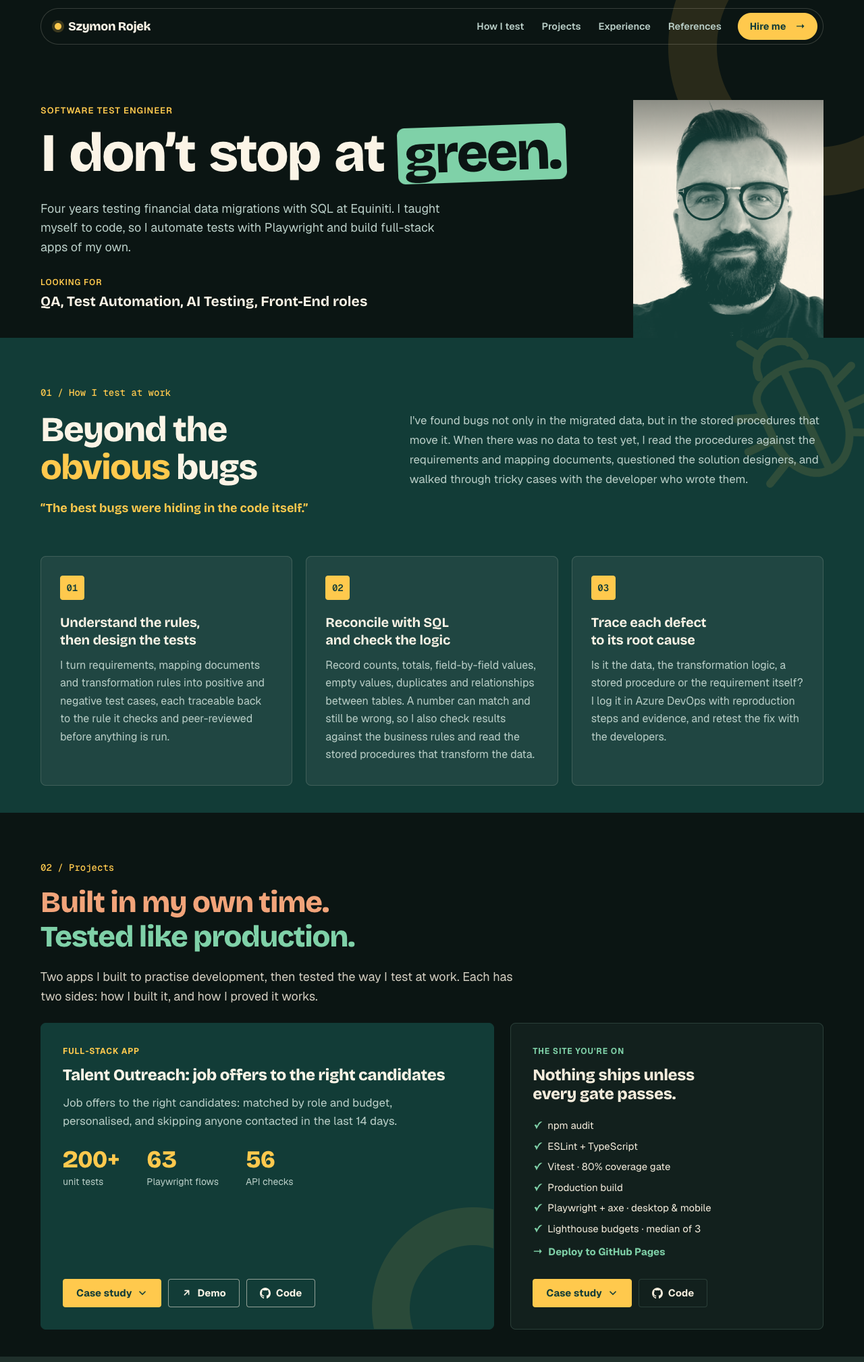
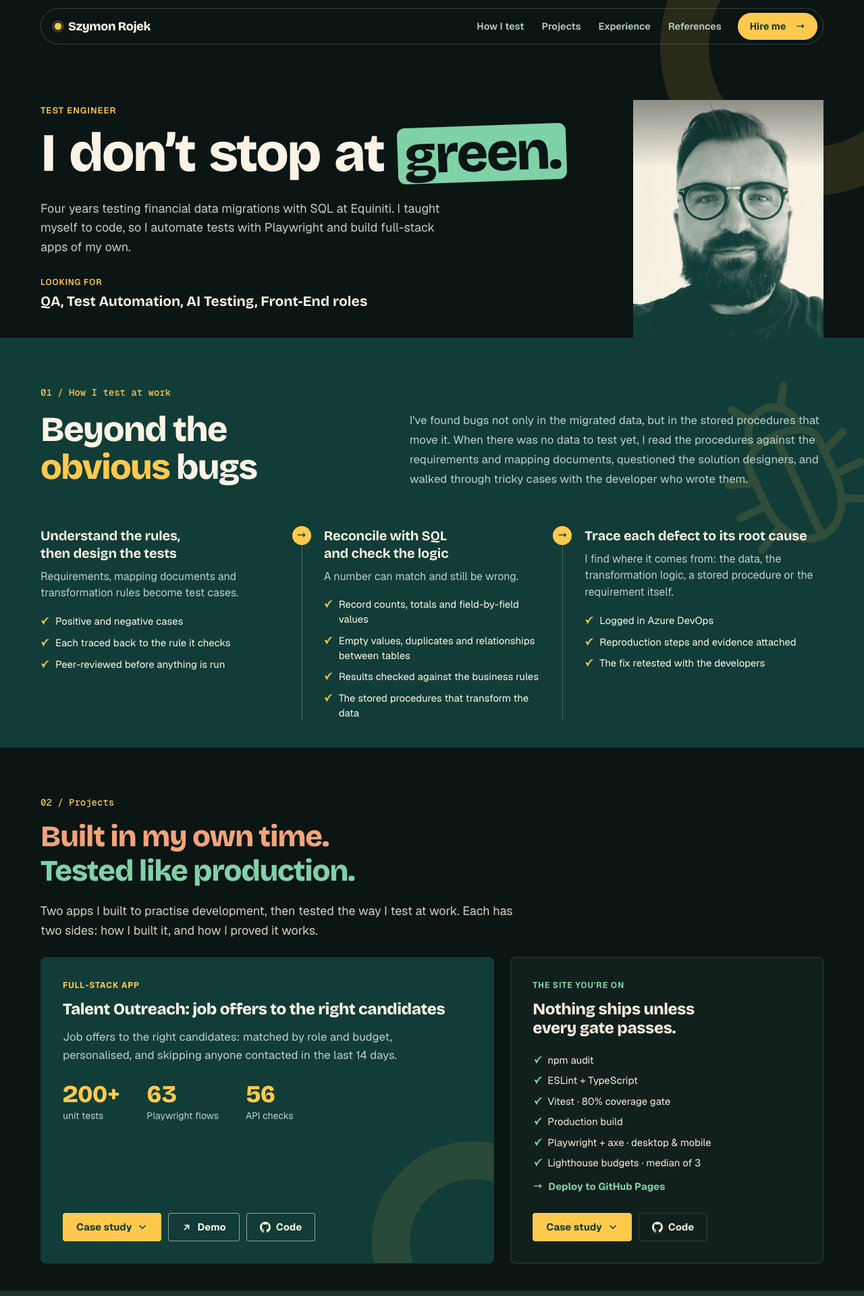
drop "Software" from the title, and grey the job's period
The job in Experience keeps its real title, Software Test Engineer.

diff --git a/index.html b/index.html
@@ -50,48 +50,72 @@
         font-style: normal;
         font-display: swap;
         font-weight: 200 800;
-        src: url("%BASE_URL%fonts/bricolage-grotesque-latin-ext-wght-normal.woff2") format("woff2");
-        unicode-range: U+0100-02BA, U+02BD-02C5, U+02C7-02CC, U+02CE-02D7, U+02DD-02FF, U+0304, U+0308, U+0329, U+1D00-1DBF, U+1E00-1E9F, U+1EF2-1EFF, U+2020, U+20A0-20AB, U+20AD-20C0, U+2113, U+2C60-2C7F, U+A720-A7FF;
+        src: url("%BASE_URL%fonts/bricolage-grotesque-latin-ext-wght-normal.woff2")
+          format("woff2");
+        unicode-range:
+          U+0100-02BA, U+02BD-02C5, U+02C7-02CC, U+02CE-02D7, U+02DD-02FF,
+          U+0304, U+0308, U+0329, U+1D00-1DBF, U+1E00-1E9F, U+1EF2-1EFF, U+2020,
+          U+20A0-20AB, U+20AD-20C0, U+2113, U+2C60-2C7F, U+A720-A7FF;
       }
       @font-face {
         font-family: "Bricolage Grotesque";
         font-style: normal;
         font-display: swap;
         font-weight: 200 800;
-        src: url("%BASE_URL%fonts/bricolage-grotesque-latin-wght-normal.woff2") format("woff2");
-        unicode-range: U+0000-00FF, U+0131, U+0152-0153, U+02BB-02BC, U+02C6, U+02DA, U+02DC, U+0304, U+0308, U+0329, U+2000-206F, U+20AC, U+2122, U+2191, U+2193, U+2212, U+2215, U+FEFF, U+FFFD;
+        src: url("%BASE_URL%fonts/bricolage-grotesque-latin-wght-normal.woff2")
+          format("woff2");
+        unicode-range:
+          U+0000-00FF, U+0131, U+0152-0153, U+02BB-02BC, U+02C6, U+02DA, U+02DC,
+          U+0304, U+0308, U+0329, U+2000-206F, U+20AC, U+2122, U+2191, U+2193,
+          U+2212, U+2215, U+FEFF, U+FFFD;
       }
       @font-face {
         font-family: "Geist";
         font-style: normal;
         font-display: swap;
         font-weight: 100 900;
-        src: url("%BASE_URL%fonts/geist-latin-ext-wght-normal.woff2") format("woff2");
-        unicode-range: U+0100-02BA, U+02BD-02C5, U+02C7-02CC, U+02CE-02D7, U+02DD-02FF, U+0304, U+0308, U+0329, U+1D00-1DBF, U+1E00-1E9F, U+1EF2-1EFF, U+2020, U+20A0-20AB, U+20AD-20C0, U+2113, U+2C60-2C7F, U+A720-A7FF;
+        src: url("%BASE_URL%fonts/geist-latin-ext-wght-normal.woff2")
+          format("woff2");
+        unicode-range:
+          U+0100-02BA, U+02BD-02C5, U+02C7-02CC, U+02CE-02D7, U+02DD-02FF,
+          U+0304, U+0308, U+0329, U+1D00-1DBF, U+1E00-1E9F, U+1EF2-1EFF, U+2020,
+          U+20A0-20AB, U+20AD-20C0, U+2113, U+2C60-2C7F, U+A720-A7FF;
       }
       @font-face {
         font-family: "Geist";
         font-style: normal;
         font-display: swap;
         font-weight: 100 900;
-        src: url("%BASE_URL%fonts/geist-latin-wght-normal.woff2") format("woff2");
-        unicode-range: U+0000-00FF, U+0131, U+0152-0153, U+02BB-02BC, U+02C6, U+02DA, U+02DC, U+0304, U+0308, U+0329, U+2000-206F, U+20AC, U+2122, U+2191, U+2193, U+2212, U+2215, U+FEFF, U+FFFD;
+        src: url("%BASE_URL%fonts/geist-latin-wght-normal.woff2")
+          format("woff2");
+        unicode-range:
+          U+0000-00FF, U+0131, U+0152-0153, U+02BB-02BC, U+02C6, U+02DA, U+02DC,
+          U+0304, U+0308, U+0329, U+2000-206F, U+20AC, U+2122, U+2191, U+2193,
+          U+2212, U+2215, U+FEFF, U+FFFD;
       }
       @font-face {
         font-family: "Geist Mono";
         font-style: normal;
         font-display: swap;
         font-weight: 100 900;
-        src: url("%BASE_URL%fonts/geist-mono-latin-ext-wght-normal.woff2") format("woff2");
-        unicode-range: U+0100-02BA, U+02BD-02C5, U+02C7-02CC, U+02CE-02D7, U+02DD-02FF, U+0304, U+0308, U+0329, U+1D00-1DBF, U+1E00-1E9F, U+1EF2-1EFF, U+2020, U+20A0-20AB, U+20AD-20C0, U+2113, U+2C60-2C7F, U+A720-A7FF;
+        src: url("%BASE_URL%fonts/geist-mono-latin-ext-wght-normal.woff2")
+          format("woff2");
+        unicode-range:
+          U+0100-02BA, U+02BD-02C5, U+02C7-02CC, U+02CE-02D7, U+02DD-02FF,
+          U+0304, U+0308, U+0329, U+1D00-1DBF, U+1E00-1E9F, U+1EF2-1EFF, U+2020,
+          U+20A0-20AB, U+20AD-20C0, U+2113, U+2C60-2C7F, U+A720-A7FF;
       }
       @font-face {
         font-family: "Geist Mono";
         font-style: normal;
         font-display: swap;
         font-weight: 100 900;
-        src: url("%BASE_URL%fonts/geist-mono-latin-wght-normal.woff2") format("woff2");
-        unicode-range: U+0000-00FF, U+0131, U+0152-0153, U+02BB-02BC, U+02C6, U+02DA, U+02DC, U+0304, U+0308, U+0329, U+2000-206F, U+20AC, U+2122, U+2191, U+2193, U+2212, U+2215, U+FEFF, U+FFFD;
+        src: url("%BASE_URL%fonts/geist-mono-latin-wght-normal.woff2")
+          format("woff2");
+        unicode-range:
+          U+0000-00FF, U+0131, U+0152-0153, U+02BB-02BC, U+02C6, U+02DA, U+02DC,
+          U+0304, U+0308, U+0329, U+2000-206F, U+20AC, U+2122, U+2191, U+2193,
+          U+2212, U+2215, U+FEFF, U+FFFD;
       }
     </style>
     <script>
@@ -106,10 +130,10 @@
         // Storage blocked: the app sets the theme once it loads.
       }
     </script>
-    <title>Szymon Rojek | Software Test Engineer</title>
+    <title>Szymon Rojek | Test Engineer</title>
     <meta
       name="description"
-      content="Software Test Engineer in Hove, UK, open to Test Automation and QA roles: data migration and ETL testing, SQL reconciliation, API testing and Playwright."
+      content="Test Engineer in Hove, UK, open to Test Automation and QA roles: data migration and ETL testing, SQL reconciliation, API testing and Playwright."
     />
     <link rel="canonical" href="https://szymonrojek.com/" />
     <meta name="author" content="Szymon Rojek" />
@@ -135,10 +159,10 @@
     <meta property="og:site_name" content="Szymon Rojek" />
     <meta property="og:locale" content="en_GB" />
     <meta property="og:url" content="https://szymonrojek.com/" />
-    <meta property="og:title" content="Szymon Rojek | Software Test Engineer" />
+    <meta property="og:title" content="Szymon Rojek | Test Engineer" />
     <meta
       property="og:description"
-      content="Software Test Engineer in Hove, UK, open to Test Automation and QA roles: data migration and ETL testing, SQL reconciliation, API testing and Playwright."
+      content="Test Engineer in Hove, UK, open to Test Automation and QA roles: data migration and ETL testing, SQL reconciliation, API testing and Playwright."
     />
     <meta property="og:image" content="https://szymonrojek.com/og-image.jpg" />
     <!-- 1200×630, the size LinkedIn and X show large. -->
@@ -147,7 +171,7 @@
     <meta property="og:image:height" content="630" />
     <meta
       property="og:image:alt"
-      content="Szymon Rojek, Software Test Engineer, beside a photo of Szymon"
+      content="Szymon Rojek, Test Engineer, beside a photo of Szymon"
     />
     <meta name="twitter:card" content="summary_large_image" />
   </head>

diff --git a/e2e/header.spec.ts b/e2e/header.spec.ts
@@ -12,7 +12,7 @@ test.describe("Header and footer", () => {
     // the line over the headline the title.
     const headline = page.getByRole("heading", { level: 1 });
     await expect(headline).toHaveAccessibleName(
-      "Szymon Rojek, Software Test Engineer: I don’t stop at green.",
+      "Szymon Rojek, Test Engineer: I don’t stop at green.",
     );
     const brand = page.getByRole("link", { name: /^Szymon Rojek/ });
     await expect(brand).toBeVisible();
@@ -22,7 +22,7 @@ test.describe("Header and footer", () => {
     // Over the headline, the title, in capitals set by CSS.
     const eyebrow = page
       .getByRole("banner")
-      .getByText("Software Test Engineer", { exact: true });
+      .getByText("Test Engineer", { exact: true });
     await expect(eyebrow).toBeVisible();
     await expect(eyebrow).toHaveCSS("text-transform", "uppercase");
   });

diff --git a/e2e/seo.spec.ts b/e2e/seo.spec.ts
@@ -14,7 +14,7 @@ test.describe("search engines and link previews @desktop", () => {
   });
 
   test("the head describes the page in British English", async ({ page }) => {
-    await expect(page).toHaveTitle("Szymon Rojek | Software Test Engineer");
+    await expect(page).toHaveTitle("Szymon Rojek | Test Engineer");
     await expect(page.locator("html")).toHaveAttribute("lang", "en-GB");
     await expect(page.locator('link[rel="canonical"]')).toHaveAttribute(
       "href",
@@ -69,7 +69,7 @@ test.describe("search engines and link previews @desktop", () => {
     expect(person).toMatchObject({
       "@type": "Person",
       name: "Szymon Rojek",
-      jobTitle: "Software Test Engineer",
+      jobTitle: "Test Engineer",
       sameAs: [
         "https://www.linkedin.com/in/szymon--rojek/",
         "https://github.com/SzymonRojek",

diff --git a/src/features/Homepage/MainHeader/index.test.tsx b/src/features/Homepage/MainHeader/index.test.tsx
@@ -37,12 +37,12 @@ describe("MainHeader", () => {
     // search engines; "green." sits on its tilted block.
     const headline = screen.getByRole("heading", {
       level: 1,
-      name: "Szymon Rojek, Software Test Engineer: I don’t stop at green.",
+      name: "Szymon Rojek, Test Engineer: I don’t stop at green.",
     });
     expect(headline.querySelector("svg")).toBeNull();
     expect(screen.getByText("green.").parentElement).toBe(headline);
     // Over it, the title, as a plain line, not a heading.
-    const eyebrow = screen.getByText("Software Test Engineer", {
+    const eyebrow = screen.getByText("Test Engineer", {
       selector: "p",
     });
     expect(eyebrow.tagName).toBe("P");

diff --git a/e2e/prerender.spec.ts b/e2e/prerender.spec.ts
@@ -34,7 +34,7 @@ test.describe("the page without JavaScript", () => {
       await expect(
         page.getByRole("heading", { level: 1 }),
       ).toHaveAccessibleName(
-        "Szymon Rojek, Software Test Engineer: I don’t stop at green.",
+        "Szymon Rojek, Test Engineer: I don’t stop at green.",
       );
       await expect(page.getByRole("heading", { level: 1 })).toBeVisible();
       for (const name of sections) {

diff --git a/src/features/Homepage/Experience/styled.ts b/src/features/Homepage/Experience/styled.ts
@@ -46,11 +46,12 @@ export const Meta = styled.div`
   }
 `;
 
+// Quiet, like a timestamp, as the dates on the recommendation cards.
 export const Period = styled.p`
   margin: 0;
   font-size: 15px;
   font-weight: 600;
-  color: ${({ theme }) => theme.colors.qa.accent};
+  color: ${({ theme }) => theme.colors.muted};
 `;
 
 export const Company = styled.p`

diff --git a/src/features/Homepage/structuredData.test.ts b/src/features/Homepage/structuredData.test.ts
@@ -19,7 +19,7 @@ describe("structuredData", () => {
       mainEntity: {
         "@type": "Person",
         name: "Szymon Rojek",
-        jobTitle: "Software Test Engineer",
+        jobTitle: "Test Engineer",
         image: "https://szymonrojek.com/szymon-rojek.jpg",
         homeLocation: { "@type": "Place", name: "Hove, UK" },
         sameAs: [

diff --git a/src/features/Homepage/profile.ts b/src/features/Homepage/profile.ts
@@ -1,6 +1,6 @@
 // Where I live: in the page's structured data only, not on screen.
 const basedIn = "Hove, UK";
-const title = "Software Test Engineer";
+const title = "Test Engineer";
 
 export const profile = {
   name: "Szymon Rojek",

diff --git a/CLAUDE.md b/CLAUDE.md
@@ -4,13 +4,13 @@ Guidance for AI agents (Claude Code) working in this repository.
 
 ## Project overview
 
-Personal portfolio homepage of **Szymon Rojek**, Software Test Engineer (data migration, SQL and API testing) who also builds front-end.
+Personal portfolio homepage of **Szymon Rojek**, Test Engineer (data migration, SQL and API testing) who also builds front-end.
 Live: https://szymonrojek.com/ (GitHub Pages with a custom domain bought at Cloudflare; `public/CNAME`, `homepage` field in `package.json`). The old https://szymonrojek.github.io/homepage/ redirects there.
 
 A single page aimed at recruiters for test automation and QA roles (developer roles possibly too, through the `#case-study-talent-outreach-developer` link). The theme of the page is a tester who also builds software (the duotone portrait, the projects' code and test colours, and the footer's question), told with as little repetition as possible: each fact lives in one place. The design is a "colour block": the page opens and closes on near-black with a green undertone (`brand.dark`, `#0B1513`: the hero and the footer), the deep brand green (`brand.background`) is the one strong colour inside it (the raised top bar, the How I test band, the featured project card), with cream text and a sunny yellow accent, around a warm sand page (`#F4EAD6`) with white bands and cards that alternate down the page (redesigned on 2026-10-16 after a reference page the user picked). Testing is green (`theme.colors.qa`), code is terracotta (`theme.colors.dev`). Headings use Bricolage Grotesque, body text Geist, tiny labels and the section numbers Geist Mono (the reference page's fonts; Plus Jakarta Sans and Inter before 2026-10-16). Parts in order (sections: How I test, Projects, Experience, Skills, References, each with a small numbered heading, "01 / How I test at work" and so on):
 
 - **Skip link and floating top bar:** a rounded pill (modelled on a design the user picked on 2026-10-16; it replaced a full-width bar), sticky 12px under the top of the window (8px on phones), on the content column, in three states (`useBarState`, `nextBarState` tested on its own): at the top of the page only a thin cream outline over the hero (no fill, no shadow); once the page scrolls, raised, at once (no fade in: a jump lands over the light sections, where a fading bar left its cream links unreadable for a moment, which axe caught in CI; it fades only back to the outline, and an e2e test reads the colour straight after a jump): the deep brand green at 94% with the page blurred under it (`backdrop-filter`) and a layered shadow with a light top edge (`brand.pillShadow`), so it reads as a 3D layer; past the hero, scrolling down hides it (it slides up out of sight in 0.3 s, at once with reduced motion) and any scroll up brings it back, on every screen size. A jump of more than 60% of the window in one step keeps it in sight, and so does a click on a link to a section: the links scroll smoothly, in small steps that would read as scrolling down, so the bar holds raised while that scroll keeps moving (a 400 ms quiet timer, no fixed limit, and not `scrollend`, which Chrome fires right after the click; an e2e test clicks three links in turn under load), a few pixels of tremble are ignored, keyboard focus inside brings it back (`:focus-within`), and an open menu keeps it raised. The hero starts under it, pulled up by the bar's negative margin of `theme.layout.topBar` (66px, 57px on phones: the gap plus the pill), and only the pill takes clicks (the strip around it is `pointer-events: none`). In it: a small yellow dot that pulses (a ring grows and fades every 2 s; still, with a soft ring, with reduced motion; decorative, `aria-hidden`; asked for by the user on 2026-10-16, after an "available" dot in the hero had been dropped as a template look), my name as the wordmark (back to top; the job title is over the hero's headline), section links in page order (How I test, Projects, Experience, References; Skills has no link) in muted cream that brighten on a soft pill on hover, and a yellow pill "Hire me →" (was "Contact"; the arrow is decorative, the name stays "Hire me"; it goes to `#contact`; the theme button moved to the footer on 2026-10-16). Pills here break the 4px-corner rule on purpose: the bar is the one rounded element. Up to `tabletVerticalMax` (991px) the pill shows only the dot, the logo and a ☰ button (`MenuButton`): the three lines alone at the pill's right end, no circle behind them (removed on 2026-10-17), with a tap area as tall as the pill, yellow on hover, its focus ring inside the pill; `aria-expanded`, `aria-controls="site-menu"`); the links, then "Hire me", move into a solid green rounded panel 8px under the pill (solid because a blur inside the blurred pill would only see the pill; it fades in and slides down 8px in 0.2 s, at once with reduced motion; closed, `visibility: hidden` keeps it from the keyboard and screen readers) that closes on a link, on Escape (focus back to the button) and on a click outside. "Hire me" lives inside the `<nav>`, once, for both layouts. Focus rings on the green are yellow.
-- **Header (hero):** a full-width near-black band (`brand.dark`, outside the page `Container`) with a soft yellow ring in the corner: `profile.eyebrow` ("Software Test Engineer", the title alone; "· Hove, UK" was removed on 2026-10-17, and `basedIn` stays only in the structured data and the search description) as a small line of yellow capitals (CSS `text-transform`, normal case in the HTML) over the headline, then the tagline as the big headline, in my own words ("I don’t stop at green."), with wider word spacing (`word-spacing: 0.08em`, against the tight `letter-spacing`) and `profile.taglineHighlight` ("green.") on a tilted block of mint, the green of a passing test, with near-black letters (`brand.highlight` / `brand.onHighlight`: 10.3:1 against the hero, 10.2:1 for the letters; rotated −2°, rounded 0.14em, like a sticker; it replaced a hand-drawn yellow underline, and a deep-green block that was only 1.53:1 against the hero; yellow stays for the buttons), a two-sentence bio, then `profile.lookingFor` ("Looking for" as a small yellow label over "QA, Test Automation, AI Testing, Front-End roles" in the display face) as the hero's last line. Its `lines` are two parts of phrases, each an inline-block, so it is one line where it fits, then "QA, Test Automation," / "AI Testing, Front-End roles", and only on the narrowest phones does a part break between its phrases ("AI Testing," / "Front-End roles"); a non-breaking space and hyphen keep "AI Testing" and "Front-End" whole. On phones (≤767px) the hero's text runs full width (`Details` steps aside with `display: contents`) and the photo stands beside "Looking for", its top level with the label, smaller (`clamp(128px, 37cqi, 200px)`, with a smaller caption), on the band's edge; the line is 17px there. The "Full right to work in the UK · Open to relocation" line under it was removed on purpose on 2026-10-17; they remain in the README and the search description. No "available" dot in the hero: it read as a template (a pulsing dot by the name in the top bar was asked for later, on 2026-10-16). The headline is the h1 and starts with a visually hidden "Szymon Rojek, Software Test Engineer: " (on screen the top bar shows the name and the line over the headline the title), so screen readers and search engines get the name, the title and the line; it and the photo size themselves from the band's width (a container query on `Band`: the headline `clamp(32px, max(19px + 3.6cqi, 7cqi - 8px), 80px)`, the photo `clamp(200px, 22cqi, 300px)`), so both only ever shrink as the window narrows, with no jump where the layout changes (the headline used to follow its own column and grew back to 76px when the photo moved under the text at 767px); the headline stays on one line from 360px up, set by the tightest fit, the two-column hero at 768px, and only breaks, into balanced lines (`text-wrap: balance`), below that (change the two lines with the tagline or the photo's width). On the right the portrait (`MainHeader/Portrait`, square corners) stands on the band's bottom edge: one still photo in the brand duotone (SVG filter `#portrait-duotone`: black to the deep brand green, white to cream, through levels and a gamma curve, black point 0.12, white point 0.92, gamma 1.35, because the bright daylight photo came out pale when mapped straight), eyes included, with a light shade of the hero's dark at the top; a plain `<img>` with my name as `alt`. It replaced, on 2026-10-17 at the user's request, a split portrait with a draggable yellow line between the colour photo and the duotone, its range-input slider and its "100% tester" / "…who also codes" captions: don't bring them back unless asked. The hero has no buttons: contact lives in the top bar and the footer. There is deliberately no CV download.
+- **Header (hero):** a full-width near-black band (`brand.dark`, outside the page `Container`) with a soft yellow ring in the corner: `profile.eyebrow` ("Test Engineer", the title alone; "Software" was dropped on 2026-10-17, everywhere but the job in Experience, which keeps its real title "Software Test Engineer"; "· Hove, UK" was removed on 2026-10-17, and `basedIn` stays only in the structured data and the search description) as a small line of yellow capitals (CSS `text-transform`, normal case in the HTML) over the headline, then the tagline as the big headline, in my own words ("I don’t stop at green."), with wider word spacing (`word-spacing: 0.08em`, against the tight `letter-spacing`) and `profile.taglineHighlight` ("green.") on a tilted block of mint, the green of a passing test, with near-black letters (`brand.highlight` / `brand.onHighlight`: 10.3:1 against the hero, 10.2:1 for the letters; rotated −2°, rounded 0.14em, like a sticker; it replaced a hand-drawn yellow underline, and a deep-green block that was only 1.53:1 against the hero; yellow stays for the buttons), a two-sentence bio, then `profile.lookingFor` ("Looking for" as a small yellow label over "QA, Test Automation, AI Testing, Front-End roles" in the display face) as the hero's last line. Its `lines` are two parts of phrases, each an inline-block, so it is one line where it fits, then "QA, Test Automation," / "AI Testing, Front-End roles", and only on the narrowest phones does a part break between its phrases ("AI Testing," / "Front-End roles"); a non-breaking space and hyphen keep "AI Testing" and "Front-End" whole. On phones (≤767px) the hero's text runs full width (`Details` steps aside with `display: contents`) and the photo stands beside "Looking for", its top level with the label, smaller (`clamp(128px, 37cqi, 200px)`, with a smaller caption), on the band's edge; the line is 17px there. The "Full right to work in the UK · Open to relocation" line under it was removed on purpose on 2026-10-17; they remain in the README and the search description. No "available" dot in the hero: it read as a template (a pulsing dot by the name in the top bar was asked for later, on 2026-10-16). The headline is the h1 and starts with a visually hidden "Szymon Rojek, Test Engineer: " (on screen the top bar shows the name and the line over the headline the title), so screen readers and search engines get the name, the title and the line; it and the photo size themselves from the band's width (a container query on `Band`: the headline `clamp(32px, max(19px + 3.6cqi, 7cqi - 8px), 80px)`, the photo `clamp(200px, 22cqi, 300px)`), so both only ever shrink as the window narrows, with no jump where the layout changes (the headline used to follow its own column and grew back to 76px when the photo moved under the text at 767px); the headline stays on one line from 360px up, set by the tightest fit, the two-column hero at 768px, and only breaks, into balanced lines (`text-wrap: balance`), below that (change the two lines with the tagline or the photo's width). On the right the portrait (`MainHeader/Portrait`, square corners) stands on the band's bottom edge: one still photo in the brand duotone (SVG filter `#portrait-duotone`: black to the deep brand green, white to cream, through levels and a gamma curve, black point 0.12, white point 0.92, gamma 1.35, because the bright daylight photo came out pale when mapped straight), eyes included, with a light shade of the hero's dark at the top; a plain `<img>` with my name as `alt`. It replaced, on 2026-10-17 at the user's request, a split portrait with a draggable yellow line between the colour photo and the duotone, its range-input slider and its "100% tester" / "…who also codes" captions: don't bring them back unless asked. The hero has no buttons: contact lives in the top bar and the footer. There is deliberately no CV download.
 - **Recommendations** (was "What colleagues say"): the last section, after Skills, on a white band (one step up in the dark theme), meeting the footer. Its h2 is the numbered label "05 / References" (`recommendationsHeading`, as in the top bar; "Peer-reviewed by others" was shown there once and dropped), so the section opens with one sentence of Jim's recommendation large as a headline (`headline`: "…you will be fortunate if you get to work with him.", word for word), still and without a byline (his card below names him). A rotation of one sentence from each colleague was built and dropped: people scroll past changing panels and see only the first (NN/g), and the marked cards say it better. "work with him" is yellow: a yellow marker behind dark words in the light theme, since yellow text on white is only 1.5:1, and yellow words in the dark theme (`quoteMark`), then the five LinkedIn recommendations (`recommendationsData.ts`, newest first: Venkat, Karthikeyan, Oskar, Jim, Dawid) as sand cards with a thin border on the white band (`quoteCard`: the page's sand, 1.19:1 against the band like the step between sections, since white on white read flat; the card colour in the dark theme), the byline first (the name, then the role and, after a dot, the month it was written, both on the left, in `<time datetime>`, above a thin rule: recruiters look for who wrote it first), then the text without quotation marks (a blank line in `quote` starts a new paragraph, as on LinkedIn), with one phrase per card on a soft yellow marker (`highlight`, `quoteHighlight`), picked for a recruiter's two-second skim (is he good at it, what does the team gain, how does he work, is he easy to work with; competence and warmth), so the five read as one sentence with the headline: Venkat "takes ownership across projects", Karthikeyan "highly skilled professional", Oskar "saving the team time and preventing future bugs", Jim "thoughtful and thorough", Dawid "easy to work with"; tests check each is word for word in its quote, all differ and none repeats the headline, in two columns that stack like bricks (`Column`: each column stacks its own cards, so a long card leaves no gap and no text is cut; the newest two sit side by side at the top and every split of the rest is tried, keeping the one whose columns end closest together (`balanceColumns`, height guessed from the text length and paragraphs, since the build can't measure; now Venkat, Oskar | Karthikeyan, Jim, Dawid); up to `tabletVerticalMax` the columns step aside with `display: contents` and CSS `order` keeps newest first; the list is a `div role="list"` because a `<ul>` can't hold the column wrappers), quoted word for word; a cut is marked with "…", nothing is reworded. Dates are short on the card ("Oct ’26", from "Oct 2026" in the data); `relation` stays in the data, not shown. Each card carries a faint LinkedIn mark in its top-right corner, like a watermark cut by the card's edge (`Watermark`, the text colour at 5% opacity, behind the text, `aria-hidden`; the list is named "Recommendations from LinkedIn" for screen readers), so visitors see where the words come from. No link to the originals (removed on purpose; LinkedIn is in the footer icons), and the mark is not a link either. Only add quotes the user has pasted from LinkedIn.
 - **How I test at work:** professional evidence before the side projects, as one block on the deep brand green (`BandSection` `$band="brand"`, cream text, the same in both themes, with a faint outline of a bug in the top-right corner, its top level with the "01 / How I test at work" label (moved down from the band's top edge on 2026-10-17; an e2e test measures it), cut by the band's right edge up to 1256px and next to the content beyond (see "Decorations stay inside the page's width"), in the yellow of the hero's ring at 12% opacity, behind the text, `aria-hidden`; a watermark, not an illustration, since a bug icon is the QA portfolio cliché): the first section, right under the hero with no gap, its h2 the numbered label "01 / How I test at work" in yellow, then my story in my own words ("Beyond the obvious bugs" large as the section's title on screen, "obvious" in yellow, on the left and the story on the right (the yellow punchline under the title, "The best bugs were hiding in the code itself.", was removed on 2026-10-17 at the user's request), one paragraph since it was shortened on 2026-10-17: bugs in stored procedures, reading code against the requirements and mapping documents, calls with the developer), then the method: three stages split by thin cream lines, so each stands on its own, with no frame or panel around them (a framed panel looked like a table and was dropped on 2026-10-17), with a yellow round arrow on each divider pointing to the next stage (→, ↓ when they stack; decorative CSS, the `<ol>` gives screen readers the order). No numbers (dropped at the user's request on 2026-10-17). Each stage: the title, one short line in muted cream and three or four ticked points in cream (yellow ✓, as in the project cards' facts; the user likes them), shortened on 2026-10-17 from a paragraph each so a recruiter can skim them, same facts, nothing added. Separate cards with yellow number badges, plain columns under a line with numbers, and the stages in one framed panel were tried that day and dropped. Stacked up to `tabletVerticalMax`, with the title and the line on the left and the points on the right; one column on phones; rules and test design, SQL reconciliation with business logic and stored procedures, root cause; AI use lives in Experience). Removed on purpose: a title line and intro of its own ("A number can match and still be wrong.", "I follow the data all the way to the code."), "Why it matters", the soft test-green band with a white card, a reconciliation example table, rows like a test plan and a path of numbered circles. Clients, systems and figures stay confidential: don't add internal system names unless the user confirms it's allowed.
 - **Projects:** opens like "How I test at work": its h2 the numbered label "02 / Projects", one big line (`BigLine`, `projectsHeadline`: "Built in my own time." in terracotta, the code colour, and "Tested like production." in green, the testing colour, as in the CODE / TEST portrait, each sentence on a line of its own; an underline or a yellow marker on "production" were the other options) and the intro (`projectsIntro`); then two case-study cards side by side, one featured: Talent Outreach (`featured: true`) large on the deep brand green (about 1.45 : 1 of the row, cream text, the hero's soft yellow ring in its corner, a yellow "Case study" button and cream-outlined links, a yellow border when open) and this website as a white card beside it (one column up to `tabletVerticalMax`). Each card: a small tag in capitals over the name (`tag`: "Full-stack app", "The site you're on"; "live demo" was dropped), the name (or `cardTitle`, a heading of its own, with no sentence under it: the website card says "Nothing ships unless every gate passes.", while its case study keeps the project's name), one sentence, then one of: `stats`, numbers large with what they count under each (Talent Outreach: "200+ unit tests", "63 Playwright flows", "56 API checks", counted in its repo on 2026-10-16, so recheck them when it changes), counting up from zero as the card comes into view (`Stats`: drawn over the real number with `data-shown`, so the page, screen readers and tests always have the real one); `gates`, the CI gates in `ci.yml`'s order, ticked one by one as the card comes into view, then "→ Deploy to GitHub Pages" (`Gates`, `siteGates` in `pipelineData.ts`: every gate is a check CI enforces); or `facts`, a list with ticks (the beige chips were dropped). Both animations share `useScrollReveal`: they wait below the screen and play once in view, and don't run with reduced motion, without JavaScript or when already on screen as the page loads, so the build's HTML shows them finished. Then the buttons, level at the bottom of both cards: "Case study" with a chevron that turns up when open (one label for both states; `aria-expanded` says which; each button and link names its project for screen readers with an `aria-label` that starts with the visible words, "Case study: Talent Outreach", "Code: This website", from the title before its colon, since both cards have the same buttons), "Demo" with a ↗ arrow and "Code" with the GitHub mark; the buttons keep their own width, never stretched: in one row while they fit, and with three buttons in a narrow card (a container query on the card, under 380px) "Case study" takes the first row with "Demo" and "Code" side by side under it, all to the left; two buttons stay side by side until the card has no room for both). All closed by default; one opens below the cards at a time (both are always in the page, a closed one hidden with CSS rather than the `hidden` attribute, so search engines and AI tools that read the HTML find them), the address becomes `#case-study-<repo>`, and the page scrolls to it and moves focus to it. There is no view switch: a case study always shows its numbered "How I solved it" story (Brief → Research as a "what exists vs my design" table → Solution → Value, with an honest next step), then "How I proved it works" (automation view) and "How I built it" (developer view) side by side, tester first, and problem, constraints, flow diagrams, decisions table and testing/performance/accessibility/security inside a `<details>` (a "Lessons learned" part was removed on 2026-10-17, from the README too) ("Technical details", a link on the right, above the close button), which opens smoothly (`::details-content` with `interpolate-size`, where the browser supports it; at once elsewhere and with reduced motion) and also closes from a square × button at its end, on the right (focus goes back to its toggle). An open card has a `primary` border (green in light, yellow in dark). Each column has an id (`#case-study-<repo>-tester` / `-developer`): a CV link opens the case study there. Testing projects without a case study would render as tiles and `category: "Other"` projects as an "Other projects" list; there are none now. Static data, no GitHub API call, so the section cannot fail or rate-limit.

diff --git a/README.md b/README.md
@@ -1,4 +1,4 @@
-# Szymon Rojek: Software Test Engineer
+# Szymon Rojek: Test Engineer
 
 **Live site: [szymonrojek.com](https://szymonrojek.com/)** · [LinkedIn](https://www.linkedin.com/in/szymon--rojek/)
 
@@ -6,18 +6,18 @@
 
 <picture>
   <source media="(prefers-color-scheme: dark)" srcset="docs/screenshot-dark.png" />
-  <img src="docs/screenshot-light.png" alt="Screenshot of the homepage: a floating top bar with my name and a yellow 'Hire me' button; on a near-black hero, 'Software Test Engineer' over the headline 'I don't stop at green.' with 'green.' on a tilted mint block, a short bio, the roles I'm looking for and a portrait in a green duotone; then '01 / How I test at work' on a deep green band, and '02 / Projects' with two project cards, one showing its test numbers and the other the CI gates this site passes" />
+  <img src="docs/screenshot-light.png" alt="Screenshot of the homepage: a floating top bar with my name and a yellow 'Hire me' button; on a near-black hero, 'Test Engineer' over the headline 'I don't stop at green.' with 'green.' on a tilted mint block, a short bio, the roles I'm looking for and a portrait in a green duotone; then '01 / How I test at work' on a deep green band, and '02 / Projects' with two project cards, one showing its test numbers and the other the CI gates this site passes" />
 </picture>
 
 ## Why this site exists (30-second summary)
 
-- **Who:** Software Test Engineer with four years' experience testing financial and shareholder data migrations at Equiniti. Data migration and ETL testing, SQL reconciliation, REST API testing, growing into test automation with Playwright and TypeScript.
+- **Who:** Test Engineer with four years' experience testing financial and shareholder data migrations at Equiniti. Data migration and ETL testing, SQL reconciliation, REST API testing, growing into test automation with Playwright and TypeScript.
 - **Looking for:** QA, Test Automation, AI Testing and Front-End roles. Based in Hove, UK, with full right to work in the UK, and open to relocation.
 - **What the site proves:** a CV can say "Playwright" and "CI/CD", but this repository shows it. The site is a small production system that ships only when unit, end-to-end, accessibility, performance and security checks all pass, and every decision behind it is written up below.
 
 | At a glance           |                                                                                      |
 | --------------------- | ------------------------------------------------------------------------------------ |
-| Automated tests       | 165 unit and component tests, 118 end-to-end runs (desktop and mobile)               |
+| Automated tests       | 166 unit and component tests, 118 end-to-end runs (desktop and mobile)               |
 | Coverage              | about 97%, with an 80% gate that fails CI                                            |
 | Lighthouse (enforced) | accessibility, best practices and SEO 100, performance budget enforced on every push |
 | Accessibility         | 0 serious or critical axe violations, in the light and the dark theme                |
